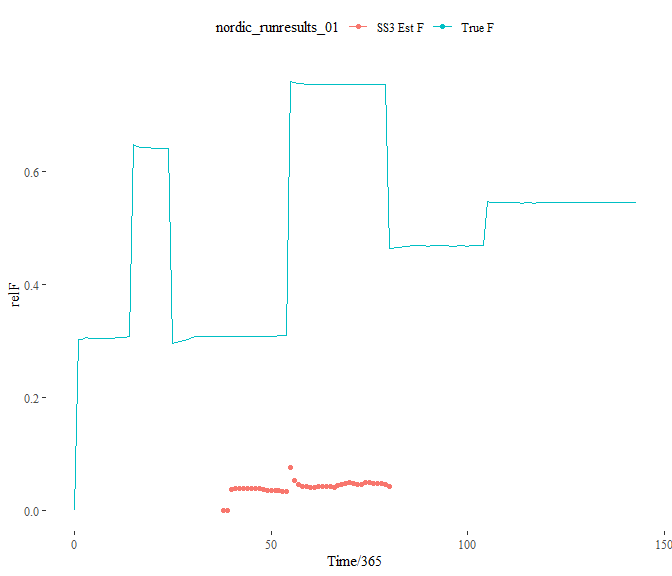
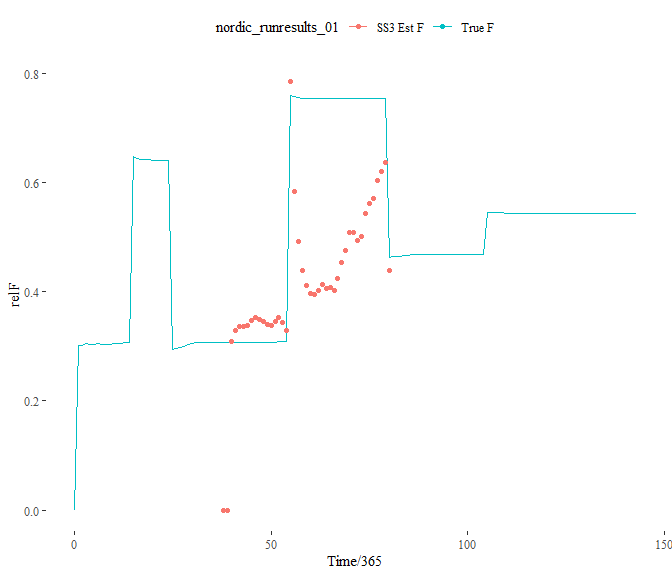
update readme with depletion case output

diff --git a/NOBA_cod_files/README.MD b/NOBA_cod_files/README.MD
@@ -24,7 +24,7 @@
     true values from Atlantis. However, the estimated biomass, spawning
     stock biomass, recruitment, and fishing mortality still did not line
     up with the true values from Atlantis.
-    ![](README_files/figure-gfm/unnamed-chunk-1-1.png)<!-- -->![](README_files/figure-gfm/unnamed-chunk-1-2.png)<!-- -->![](README_files/figure-gfm/unnamed-chunk-1-3.png)<!-- -->![](README_files/figure-gfm/unnamed-chunk-1-4.png)<!-- -->![](README_files/figure-gfm/unnamed-chunk-1-5.png)<!-- -->![](README_files/figure-gfm/unnamed-chunk-1-6.png)<!-- -->![](README_files/figure-gfm/unnamed-chunk-1-7.png)<!-- -->![](README_files/figure-gfm/unnamed-chunk-1-8.png)<!-- -->![](README_files/figure-gfm/unnamed-chunk-1-9.png)<!-- -->![](README_files/figure-gfm/unnamed-chunk-1-10.png)<!-- -->![](README_files/figure-gfm/unnamed-chunk-1-11.png)<!-- -->
+    ![](README_files/figure-gfm/unnamed-chunk-1-1.png)<!-- -->![](README_files/figure-gfm/unnamed-chunk-1-2.png)<!-- -->![](README_files/figure-gfm/unnamed-chunk-1-3.png)<!-- -->![](README_files/figure-gfm/unnamed-chunk-1-4.png)<!-- -->![](README_files/figure-gfm/unnamed-chunk-1-5.png)<!-- -->![](README_files/figure-gfm/unnamed-chunk-1-6.png)<!-- -->![](README_files/figure-gfm/unnamed-chunk-1-7.png)<!-- -->![](README_files/figure-gfm/unnamed-chunk-1-8.png)<!-- -->![](README_files/figure-gfm/unnamed-chunk-1-9.png)<!-- -->![](README_files/figure-gfm/unnamed-chunk-1-10.png)<!-- -->
 
 ### NOBA Cod SAM2SS conversion
 
